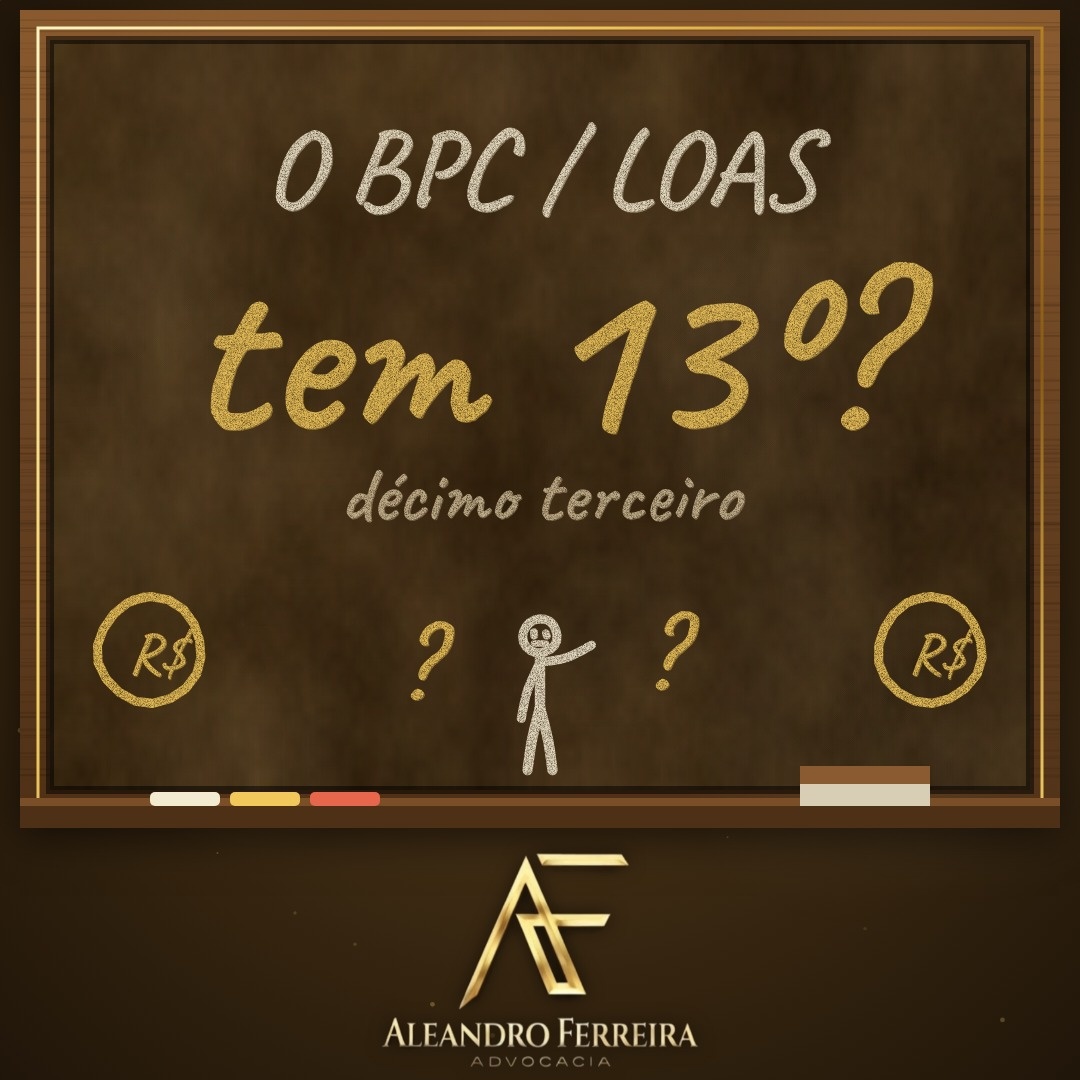
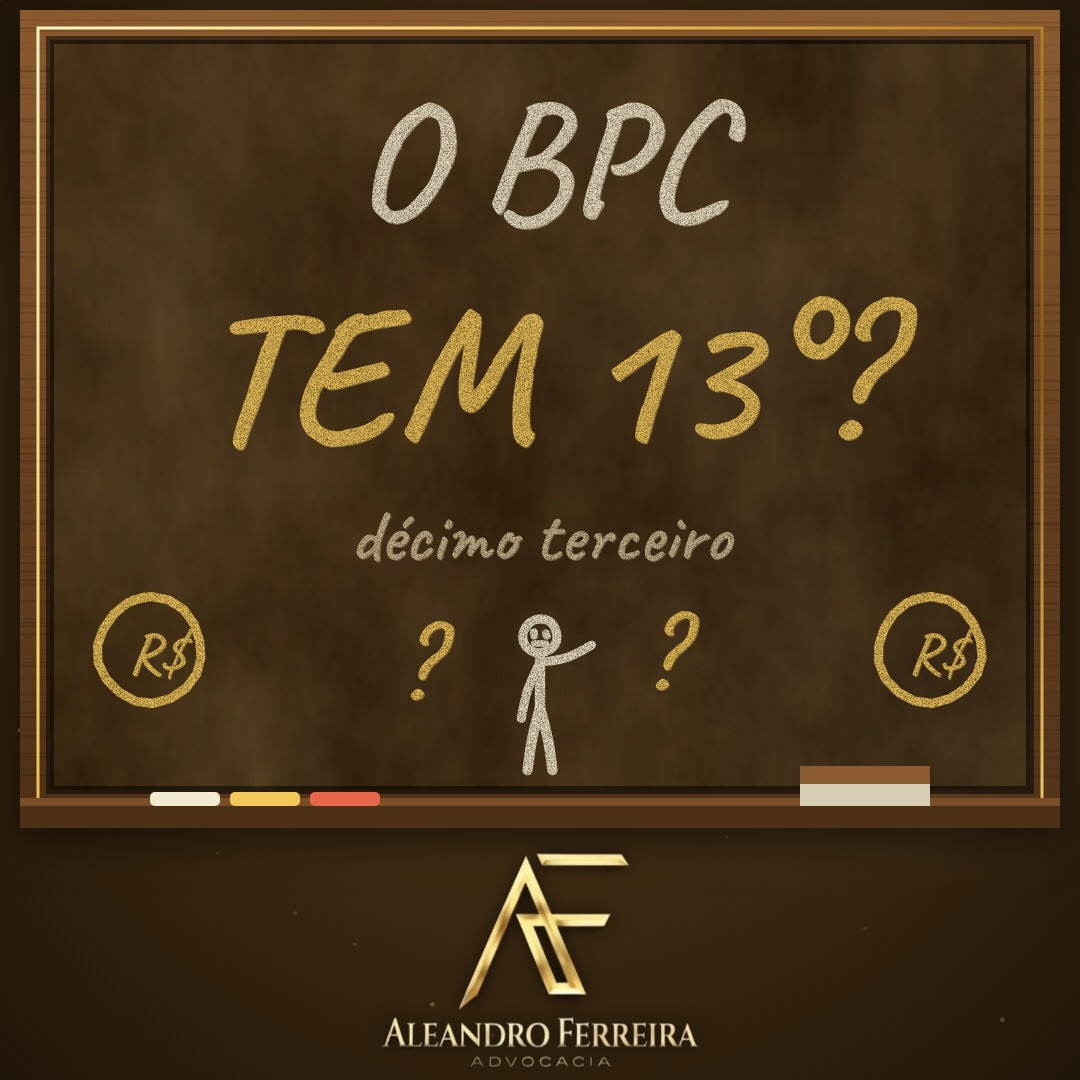
Update BPC video title to O BPC TEM 13°?
Claude-Session: https://claude.ai/code/session_01FKCJ5Cq7x5rnfz87tbgXb7

Changed region(s): [[0.1833, 0.2444, 0.8861, 0.5194], [0.3361, 0.0917, 0.7639, 0.2139], [0.2444, 0.1222, 0.3056, 0.2139]]

diff --git a/video-bpc/bpc.js b/video-bpc/bpc.js
@@ -1,4 +1,4 @@
-// Cenas do vídeo "BPC/LOAS tem 13º?" na lousa (1080x1080). Tempos vêm de work/words.json (via WORDS).
+// Cenas do vídeo "BPC/LOAS tem 13°?" na lousa (1080x1080). Tempos vêm de work/words.json (via WORDS).
 window.WIPE_PATH = [[80, 150], [1000, 150], [1000, 370], [80, 370], [80, 590], [1000, 590], [1000, 740]];
 window.WIPE_W = 240; window.HAND_SCALE = 0.62; window.HAND_OFF = [1500, 1300];
 function buildBPC(WORDS) {
@@ -10,12 +10,12 @@ function buildBPC(WORDS) {
   const ch = newChapter(0, 29.44), p = new Pen(ch, 0);
   const C = 540;
   // ---- capa: a pergunta já escrita no quadro desde o primeiro quadro (não passa pela mão) ----
-  p.at(-9).txt('O BPC / LOAS', C, 205, 100, 'cream', { align: 'center', dur: 0.5, nohand: 1 }).txt('tem 13º?', C, 430, 205, 'gold', { align: 'center', dur: 0.5, nohand: 1 }).txt('décimo terceiro', C, 520, 70, 'pale', { align: 'center', dur: 0.5, nohand: 1 });
+  p.at(-9).txt('O BPC', C, 215, 150, 'cream', { align: 'center', dur: 0.5, nohand: 1 }).txt('TEM 13°?', C, 440, 175, 'gold', { align: 'center', dur: 0.5, nohand: 1 }).txt('décimo terceiro', C, 560, 66, 'pale', { align: 'center', dur: 0.5, nohand: 1 });
   p.s(circP(150, 650, 52, -1.9, 6.5, 20), 7, 'gold', { dur: 0.3, nohand: 1 }).txt('R$', 128, 672, 52, 'gold', { dur: 0.2, nohand: 1 }).s(circP(930, 650, 52, -1.9, 6.5, 20), 7, 'gold', { dur: 0.3, nohand: 1 }).txt('R$', 908, 672, 52, 'gold', { dur: 0.2, nohand: 1 });
   p.fig(figure(C, 770, 0.78, 'talk'), 'cream', { nohand: 1, dur: 0.05 }).txt('?', 395, 700, 96, 'gold', { dur: 0.1, nohand: 1 }).txt('?', 640, 690, 96, 'gold', { dur: 0.1, nohand: 1 });
-  // a mão circula o "13º?" (0,5 a 1,6 s) e sublinha (1,7 a 2,3 s)
-  p.at(1.0).s(circP(C, 345, 345, -2.6, 6.6, 36).map(([x, y]) => [x, 340 + (y - 345) * 0.39]), 8, 'gold', { dur: 0.9 });
-  p.at(2.2).s(dens([[330, 560], [750, 553]]), 7, 'cream', { dur: 0.5 }).s(dens([[360, 580], [720, 576]]), 5, 'gold', { dur: 0.4 });
+  // a mão circula o "13°?" (0,5 a 1,6 s) e sublinha (1,7 a 2,3 s)
+  p.at(1.0).s(circP(C, 345, 420, -2.6, 6.6, 36).map(([x, y]) => [x, 365 + (y - 345) * 0.3]), 8, 'gold', { dur: 0.9 });
+  p.at(2.2).s(dens([[330, 585], [750, 579]]), 7, 'cream', { dur: 0.5 }).s(dens([[360, 603], [720, 599]]), 5, 'gold', { dur: 0.4 });
   // ---- "infelizmente não." ----
   p.at(A.inf - 0.1).txt('NÃO', C, 700, 170, 'red', { align: 'center', dur: 0.7, rot: -0.1 }).s(dens([[300, 725], [780, 700]]), 8, 'red', { dur: 0.35 });
   p.at(A.inf + 0.25).fig(figure(910, 770, 0.8, 'hurt', -1), 'cream', { dur: 0.045 });
@@ -35,11 +35,11 @@ function buildBPC(WORDS) {
   p.at(A.bpc + 1.0).txt('aposentadoria', C, 390, 100, 'pale', { align: 'center', dur: 0.9 }); p.at(A.apos + 0.9).s(dens([[250, 360], [830, 352]]), 9, 'red', { dur: 0.35 });
   p.at(A.ben - 0.25).txt('é um benefício', C, 520, 90, 'cream', { align: 'center', dur: 0.85 }).txt('assistencial', C, 655, 135, 'gold', { align: 'center', dur: 1.0 }).s(dens([[260, 685], [820, 678]]), 6, 'cream', { dur: 0.35 });
   p.s(catP([[880, 640], [840, 600], [855, 565], [885, 578], [915, 565], [940, 600], [930, 625], [880, 660]]), 8, 'red', { dur: 0.4 });
-  // ---- a lei diz: sem 13º e sem pensão por morte ----
+  // ---- a lei diz: sem 13° e sem pensão por morte ----
   p.at(A.lei - 0.15).wipe(0.65);
   p.at(A.lei + 0.5).txt('a lei diz:', 190, 165, 100, 'gold', { dur: 0.7 });
   const ox = -130; p.s(lineP(780 + ox, 85, 780 + ox, 215), 8, 'gold', { dur: 0.2 }).s(lineP(700 + ox, 105, 860 + ox, 105), 8, 'gold', { dur: 0.2 }).s(lineP(700 + ox, 105, 685 + ox, 165), 5, 'gold', { dur: 0.12 }).s(lineP(700 + ox, 105, 725 + ox, 165), 5, 'gold', { dur: 0.12 }).s(lineP(860 + ox, 105, 835 + ox, 165), 5, 'gold', { dur: 0.12 }).s(lineP(860 + ox, 105, 885 + ox, 165), 5, 'gold', { dur: 0.12 }).s(arcP(700 + ox, 165, 24, 0, Math.PI), 5, 'gold', { dur: 0.15 }).s(arcP(860 + ox, 165, 24, 0, Math.PI), 5, 'gold', { dur: 0.15 });
-  p.at(A.dec - 0.3).txt('13º', 270, 450, 190, 'cream', { align: 'center', dur: 0.55 }); const x1 = crossP(270, 395, 90); p.at(A.dec + 0.7).s(x1[0], 12, 'red', { dur: 0.25 }).s(x1[1], 12, 'red', { dur: 0.25 });
+  p.at(A.dec - 0.3).txt('13°', 270, 450, 190, 'cream', { align: 'center', dur: 0.55 }); const x1 = crossP(270, 395, 90); p.at(A.dec + 0.7).s(x1[0], 12, 'red', { dur: 0.25 }).s(x1[1], 12, 'red', { dur: 0.25 });
   p.at(A.pens - 0.45).txt('pensão', 760, 400, 100, 'cream', { align: 'center', dur: 0.55 }).txt('por morte', 760, 505, 100, 'cream', { align: 'center', dur: 0.6 }); const x2 = crossP(760, 440, 120); p.at(A.pens + 0.85).s(x2[0], 12, 'red', { dur: 0.25 }).s(x2[1], 12, 'red', { dur: 0.25 });
   p.at(A.pens + 1.2).txt('benefício assistencial', C, 680, 70, 'gold', { align: 'center', dur: 1.0 });
   // ---- um salário por mês, 12 meses, e acabou ----
@@ -48,7 +48,7 @@ function buildBPC(WORDS) {
   p.at(A.sal + 0.45).txt('por mês', C, 315, 95, 'cream', { align: 'center', dur: 0.55 });
   p.at(A.meses - 0.3).txt('× 12 meses', C, 450, 120, 'cream', { align: 'center', dur: 0.75 });
   p.at(A.acabou - 0.3).txt('= acabou', C, 585, 150, 'gold', { align: 'center', dur: 0.7 }).s(dens([[270, 610], [810, 603]]), 8, 'cream', { dur: 0.35 });
-  p.at(A.nao).s(rectP(240, 650, 600, 110), 9, 'red', { dur: 0.35 }).txt('SEM 13º', C, 738, 105, 'red', { align: 'center', dur: 0.55 });
+  p.at(A.nao).s(rectP(240, 650, 600, 110), 9, 'red', { dur: 0.35 }).txt('SEM 13°', C, 738, 105, 'red', { align: 'center', dur: 0.55 });
   // ---- convite para seguir ----
   p.at(A.segue - 0.55).wipe(0.65);
   p.at(A.segue + 0.45).txt('me segue!', C, 590, 150, 'gold', { align: 'center', dur: 0.75 }).s(dens([[330, 625], [750, 618]]), 8, 'cream', { dur: 0.3 });
